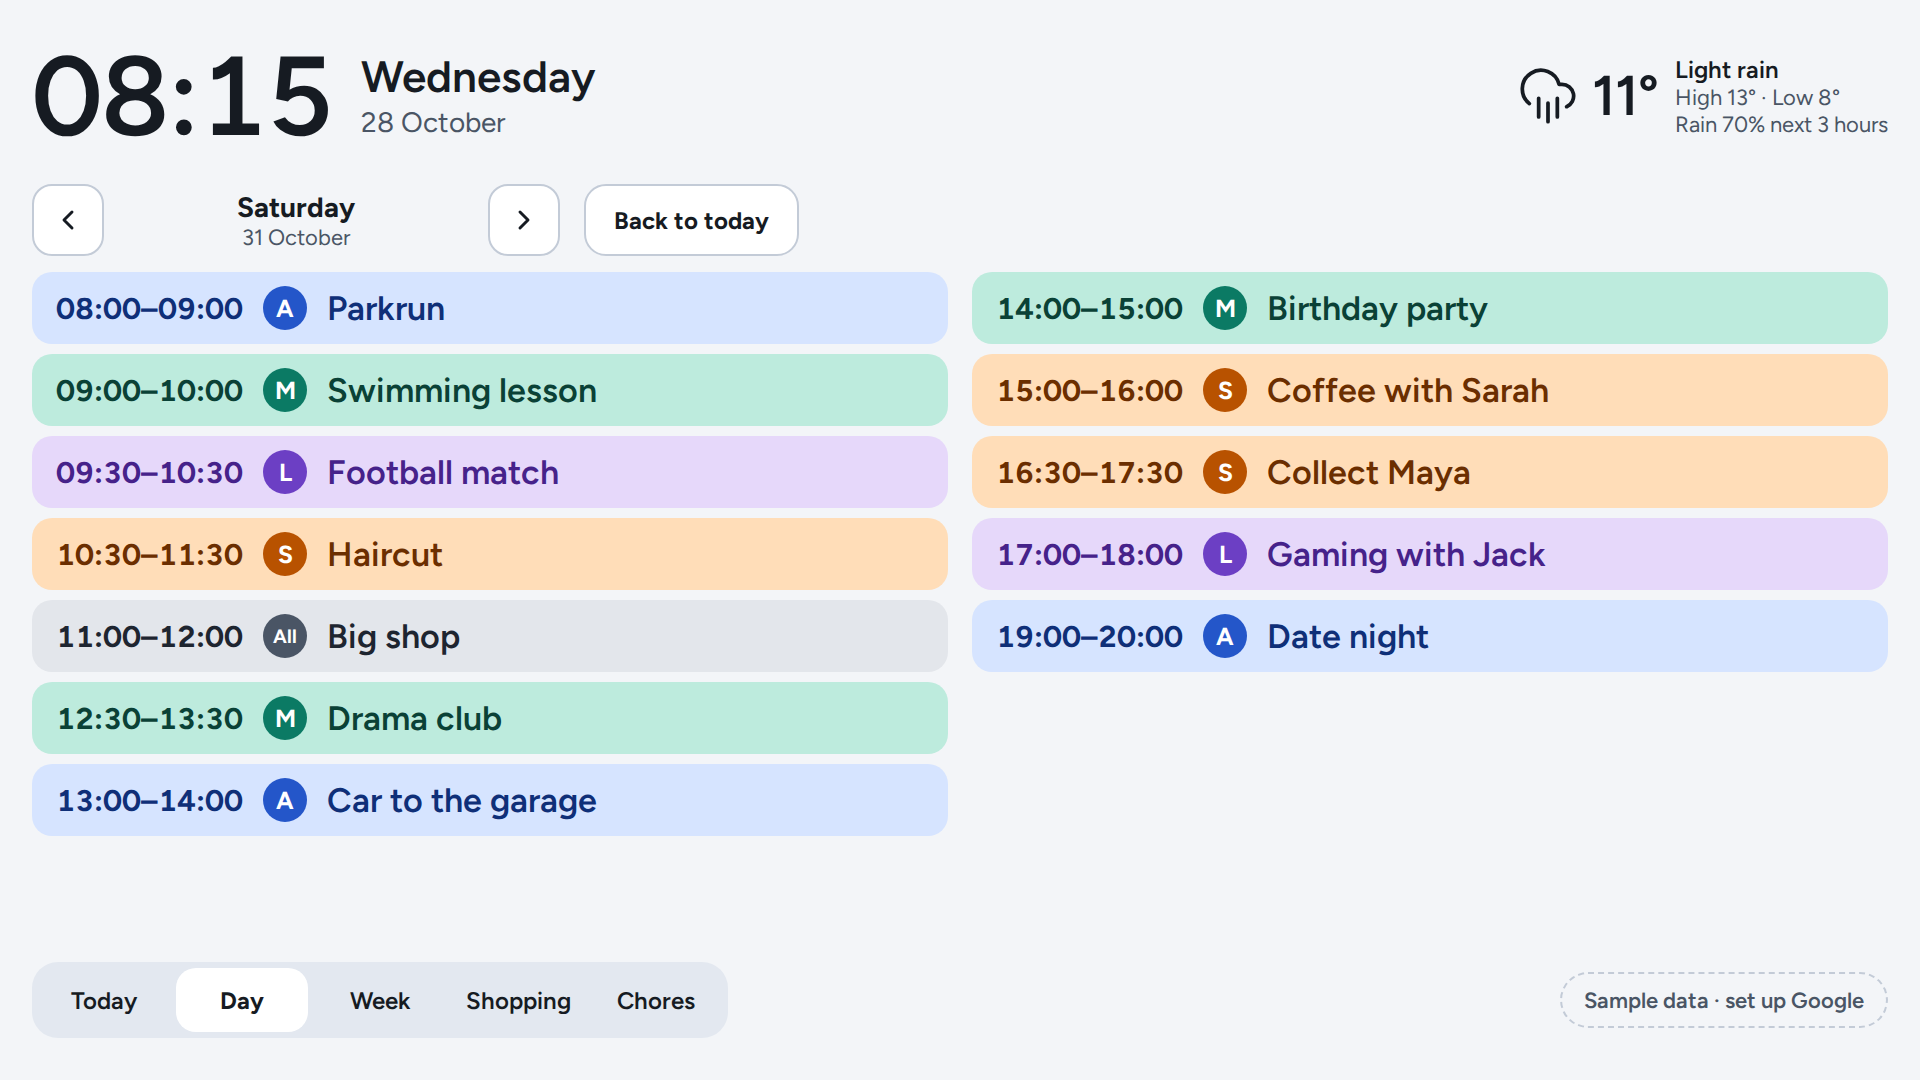
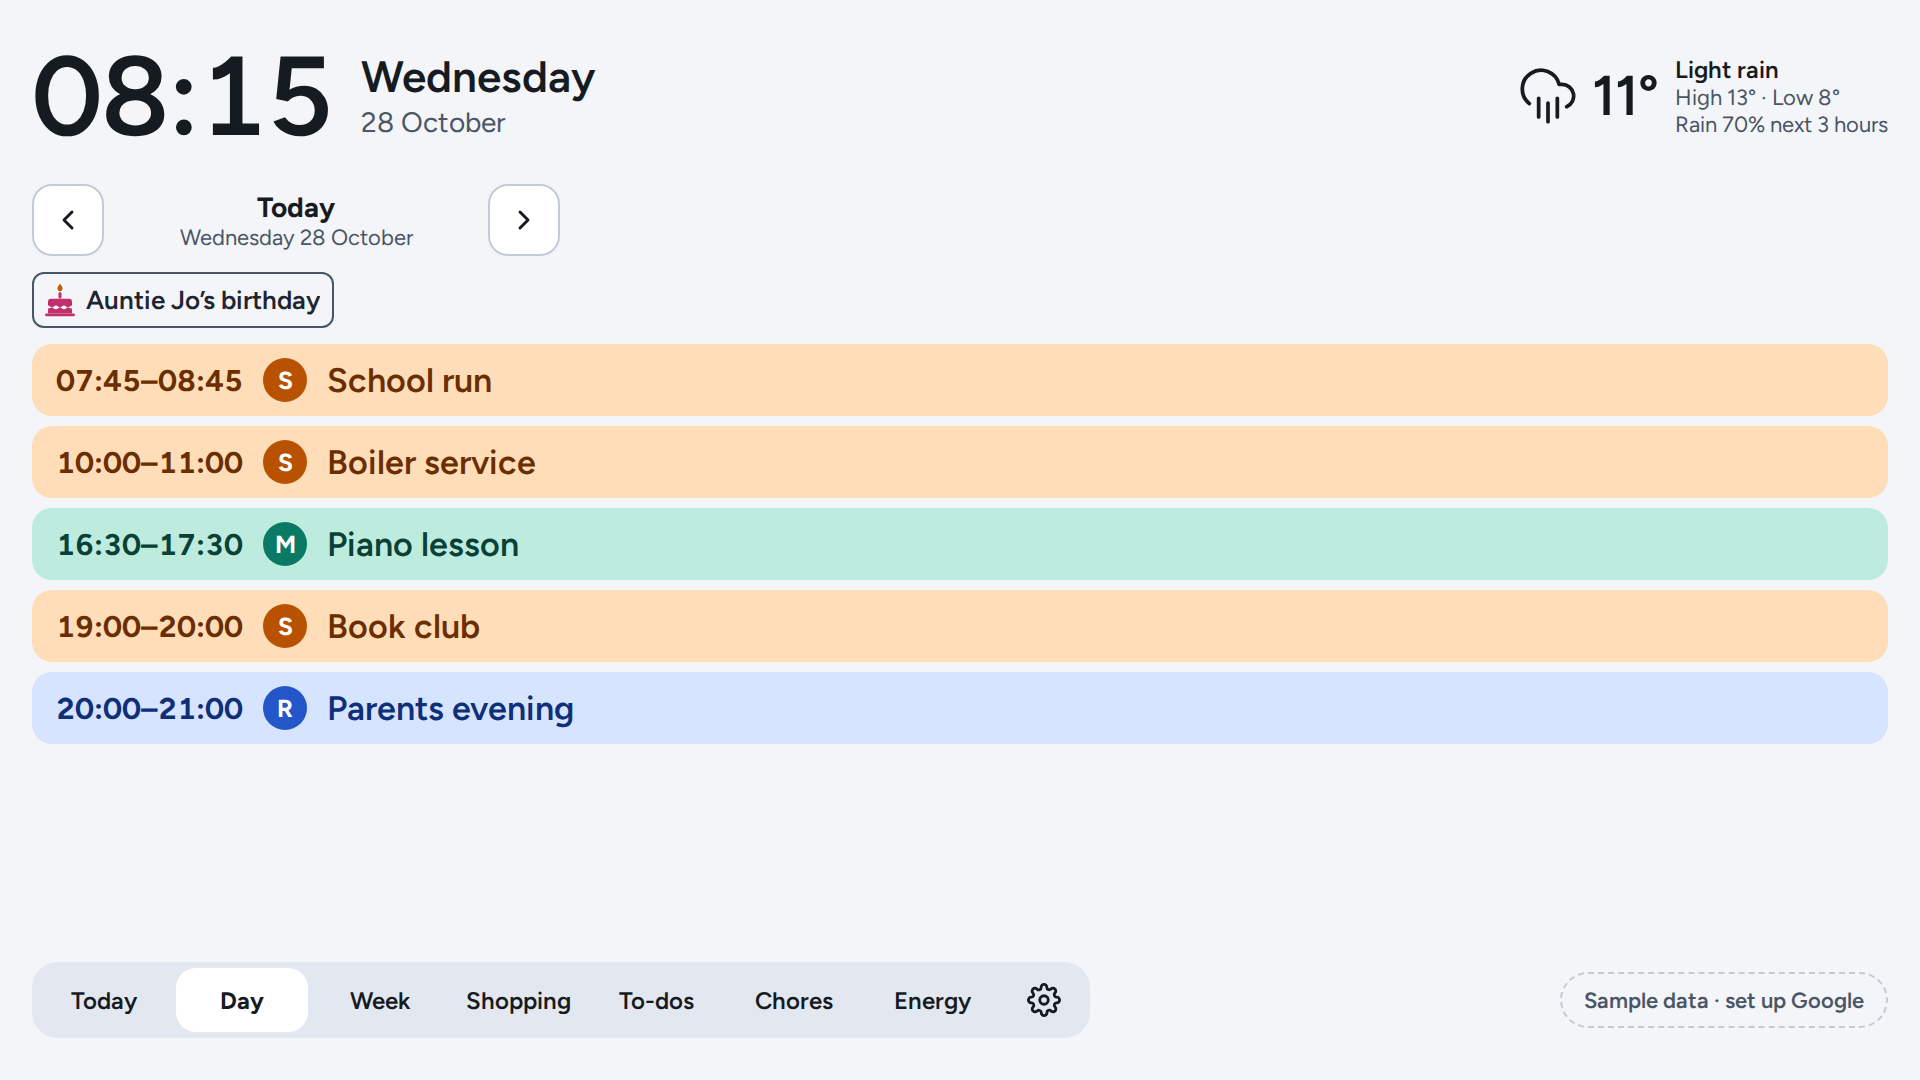
Bring the root README up to date with what's on main
What it does now covers To-dos, tapping an Event, Google Calendar's
colours, the on-screen keyboard and Settings. The screenshots are copied
again from the screenshot tests, as all six had fallen behind (the Chores
one had no To-dos or Energy tabs), with new ones for To-dos, Event
detail, the keyboard and Settings. The milestones gain Settings and the
family app's backend, How it's built gains the backend's Azure resources,
and Find your way around gains backend/ and the family app's design.

Claude-Session: https://claude.ai/code/session_01BuxoMcXhuzjMQRjq8AJh5y

diff --git a/README.md b/README.md
@@ -2,7 +2,7 @@
 
 **A family wall display for the kitchen.** One glance at a touchscreen by the kettle shows what's on today and who it's for, the week ahead, the jobs that are due, and what the electricity is costing. Nobody has to ask, shout up the stairs, or check four phones.
 
-![The Today view: the next Event with a countdown, the rest of today, the next four days, an Energy card with what the house is using, today's cost so far, a car icon showing it plugged in, and a Smart-charging slot, and the To-dos due today](docs/images/today-view.png)
+![The Today view: the next Event with a countdown, the rest of today, the next four days, an Energy card with what the house is using, today's cost so far, a car icon showing it plugged in, and a Smart-charging slot, and the To-dos due today followed by one with no date](docs/images/today-view.png)
 
 <sub>The Today view, running on a PC with sample data.</sub>
 
@@ -10,11 +10,14 @@ FamilyHub is a personal project, built by one family for its own kitchen. Buildi
 
 ## What it does
 
-- **Shows everyone's day at a glance.** It reads the Household's Google Calendars: one per person, plus a shared Family calendar. Each person has a colour and an initial, so you can tell whose an Event is from across the room.
+- **Shows everyone's day at a glance.** It reads the Household's Google Calendars: one per person, plus a shared Family calendar. Each person has a colour and an initial, so you can tell whose an Event is from across the room, and the colours include Google Calendar's own, so they can match everyone's phones. Tap any Event to see its full title and times.
 - **Keeps the shopping list on the wall.** Add or tick off items on the screen, and in the shop on your phone. The list lives in Google Tasks, so phones need nothing new. Tap to tick off, long-press to remove.
+- **Keeps the family's To-dos in view.** One-off and repeating jobs from a Google Tasks list. The Today view shows what's overdue and due today, then the jobs with no date, which anyone can pick up. Tick them off at the screen or on a phone.
 - **Makes chores a game for the kids.** Each child has a lane of Chores for the morning, after school and the evening, ticks them off at the screen, and earns Stars. Bonus jobs are up for grabs for extra Stars, and children who do one together each get them. Finishing a Routine gets a chime and a burst of stars.
 - **Shows when electricity is cheap, and where it goes.** It reads the Household's Intelligent Octopus Go rates and Smart-charging slots from Octopus, and the Zappi car charger's usage from myenergi. It shows what the house is using now, what today has cost, and when to start the dishwasher, washing machine and tumble drier so they finish while it's cheap. Each half-hour is split into the house and the car.
 - **Fits a busy day without scrolling.** Busy days switch to compact rows, and anything that still doesn't fit goes behind a "+N more" that opens the full day. Nothing is cut off silently.
+- **Types at the wall.** Its own on-screen keyboard opens for any box, and slides the page up so the box stays in view.
+- **Has a few Settings.** A gear in the bottom bar chooses a 24-hour or 12-hour clock, and shows which version is running, when it was built and how long it's been up.
 - **Looks after itself.** It keeps showing the last plan if the Wi-Fi drops, says when it last updated, and tells the family in plain words when it needs attention.
 - **Stays at home.** It runs on a Raspberry Pi in the kitchen, and nothing on the internet can reach it.
 
@@ -30,12 +33,22 @@ FamilyHub is a personal project, built by one family for its own kitchen. Buildi
 | ![The Chores section: a lane each for Maya and Leo with their Morning Chores ticked off and their Stars, and Up for grabs beside them with the dishwasher done by Leo and Maya together](docs/images/chores-view.png) | ![A celebration over the Chores section: "Morning done, Maya!" with her badge in a ring of stars and "+3 Stars"](docs/images/chores-celebration.png) |
 | A lane per child, with the Routine whose time it is open and the rest folded away. A tap ticks a Chore off and earns its Stars. Bonus jobs are up for grabs for whoever does them first. | Ticking off the last Chore of a Routine plays a chime and shows a burst of stars, which closes by itself. |
 
-| Energy |
-|---|
-| ![The Energy section: the price now, what the house is using with the car plugged in, and the next cheap time, a chart of today's half-hours with the car's overnight charging over Peak, Off-peak and a Smart-charging slot, the best time to run three appliances, and yesterday's cost split into house and car](docs/images/energy-view.png) |
-| The price now, what the house is using, and the next cheap time. Today's half-hours show the car's charging stacked on the house's use, over which were Peak, Off-peak or a Smart-charging slot. Each appliance gets a window to start in so it finishes while it's cheap, and yesterday's cost is split into the house and the car. |
+| Energy | To-dos |
+|---|---|
+| ![The Energy section: the price now, what the house is using with the car plugged in, and the next cheap time, a chart of today's half-hours with the car's overnight charging over Peak, Off-peak and a Smart-charging slot, the best time to run three appliances, and yesterday's cost split into house and car](docs/images/energy-view.png) | ![The To-dos section: To-dos grouped as overdue, today, tomorrow, later days and no date, with Add to-do](docs/images/todos-view.png) |
+| The price now, what the house is using, and the next cheap time. Today's half-hours show the car's charging stacked on the house's use, over which were Peak, Off-peak or a Smart-charging slot. Each appliance gets a window to start in so it finishes while it's cheap, and yesterday's cost is split into the house and the car. | Every To-do, grouped by when it's due. One-off To-dos can be added at the screen with a due date; repeating ones are set up on a phone. |
 
-The screenshots use the app's built-in sample week, sample Chores and sample energy, and are taken by the screenshot tests. On the real Hub, the corner shows when the Calendars last updated instead of "Sample data".
+| Tapping an Event | The on-screen keyboard |
+|---|---|
+| ![The Week view dimmed behind a card for Maya's "Swimming lesson", 09:00–10:00 on Saturday 31 October](docs/images/event-detail.png) | ![The Shopping list slid up above the on-screen keyboard, with "Oat milk" typed into the new item box](docs/images/keyboard.png) |
+| Titles are often cut short on the views. A tap shows the whole title, whose it is, its day and its times. | Opens for any box. Numbers along the top, £ in the symbols, and Enter says what it'll do, such as "Add". |
+
+| Settings |
+|---|
+| ![Settings: the clock as 24-hour or 12-hour, and About this Hub with the version, commit, build time, how long it's been running and Node.js](docs/images/settings-view.png) |
+| A 24-hour clock unless 12-hour is chosen, for every time on the screen. About this Hub says what's running, to check a release reached the Pi. |
+
+The screenshots use the app's built-in sample week, sample Chores, sample To-dos and sample energy, and are copied from the screenshot tests. On the real Hub, the corner shows when the Calendars last updated instead of "Sample data".
 
 ## Where it's going
 
@@ -55,8 +68,10 @@ The plan is in [docs/requirements.md](docs/requirements.md). Progress so far:
 | ✅ | A versioned release built on every merge | Done |
 | ✅ | Home energy: cheap and peak times, when to run the dishwasher, the car’s share, and its charge ([design](design/mockups/energy/notes.md)) | Done, on a PC |
 | ✅ | To-dos from Google Tasks, one-off and repeating ([design](design/mockups/todos/notes.md)) | Done, on a PC |
+| ✅ | Settings, Google Calendar's colours, and tapping an Event for its details | Done, on a PC |
 | ⬜ | A Raspberry Pi set up from scripts, showing the Hub full-screen | In progress: set up from scripts, pulling its own releases, full-screen, with its settings and secrets from Key Vault. with an on-screen keyboard. Still to come: the screen powering down for Sleep |
 | ⬜ | On the kitchen wall: **v1** | |
+| ⬜ | The Shopping list and To-dos in a backend of the Hub's own, with a family app for phones ([design](design/family-app/notes.md)) | In progress: the backend's Azure resources are built. Still to come: sign-in, the lists, and the app |
 | ⬜ | Recipe videos from a YouTube playlist | After v1 |
 | ⬜ | A motion sensor that wakes it when someone walks in | After v1 |
 | ⬜ | The rest of the chore chart: streaks, the family jar and Rewards | After v1 |
@@ -70,9 +85,9 @@ v1 is done when it's been on the wall for two weeks and nobody goes back to chec
 - **Data:** Google Calendar (read-only) and Google Tasks, signed in as the Household's one Google account. Weather from Open-Meteo.
 - **Hardware:** a Raspberry Pi 5 with a 1080p touchscreen, provisionally a 21.5″ Waveshare (not bought yet), running the app full-screen in Chromium inside cage, with no desktop behind it ([why a Pi](docs/adr/0001-web-app-on-raspberry-pi.md), [the kiosk](docs/adr/0009-kiosk-is-chromium-in-cage.md)).
 - **Hosting:** none. Everything runs on the Pi and nothing is reachable from the internet ([ADR 0002](docs/adr/0002-everything-runs-on-the-pi.md)). The Pi pulls its own releases and rolls back if one is unhealthy ([ADR 0004](docs/adr/0004-pi-pulls-releases.md)).
-- **Data:** Chores, the Hub's only data of its own, live in SQLite on the Pi, backed up nightly to Google Drive ([ADR 0006](docs/adr/0006-hub-owned-data-in-sqlite.md)).
+- **Data:** Chores, the Hub's own data, live in SQLite on the Pi, backed up nightly to Google Drive ([ADR 0006](docs/adr/0006-hub-owned-data-in-sqlite.md)). The Calendar choices and Settings are kept in a file beside it.
 - **Monitoring:** OpenTelemetry to Azure Application Insights, with anything personal stripped before it leaves the house ([ADR 0005](docs/adr/0005-telemetry-via-otel-collector-to-app-insights.md)).
-- **Azure:** the Key Vault and Application Insights are built from Bicep by an Azure DevOps pipeline, resource group included, in FamilyHub's own subscription, on free tiers unless something billable has been approved ([ADR 0008](docs/adr/0008-azure-resources-from-bicep-through-azure-devops.md)).
+- **Azure:** the Key Vault, Application Insights, and the family app's backend (Azure Functions on Flex Consumption, Cosmos DB and Web PubSub, [ADR 0010](docs/adr/0010-shared-lists-in-an-azure-backend-with-an-installable-family-app.md), [ADR 0011](docs/adr/0011-backend-runs-on-functions-flex-consumption.md)) are built from Bicep by an Azure DevOps pipeline, resource group included, in FamilyHub's own subscription, on free tiers unless something billable has been approved ([ADR 0008](docs/adr/0008-azure-resources-from-bicep-through-azure-devops.md)).
 
 ## Run it yourself
 
@@ -92,10 +107,12 @@ Open <http://localhost:5173>. It starts with sample data. To show real Google Ca
 |---|---|
 | [`app/`](app/README.md) | The Hub itself |
 | [`ansible/`](ansible/README.md) | The scripts that set up the Pi |
+| [`backend/`](backend/README.md) | The family app's backend: a FastAPI service on Azure Functions, being built |
 | [`infra/`](infra/README.md) | The Azure resources, in Bicep, and the pipeline that deploys them |
 | [`docs/requirements.md`](docs/requirements.md) | Scope, quality bar, milestones, and what "v1 done" means |
 | [`GLOSSARY.md`](GLOSSARY.md) | The words the project uses for things, such as Hub, Member and Section |
 | [`docs/adr/`](docs/adr/) | Why the big decisions went the way they did |
 | [`docs/runbooks/`](docs/runbooks/) | Step-by-step setup guides |
 | [`design/mockups/`](design/mockups/README.md) | The original UI mockups. Open `html/index.html` in a browser. The Chores designs are in [`chores/`](design/mockups/chores/README.md), and the parked portrait designs in [`portrait/`](design/mockups/portrait/README.md). |
+| [`design/family-app/notes.md`](design/family-app/notes.md) | The design of the backend and the family app for phones, and its slices |
 | [`docs/diagrams/familyhub-pitch.html`](docs/diagrams/familyhub-pitch.html) | A one-page visual pitch of the idea, written for the family. Open it from a local checkout. |
